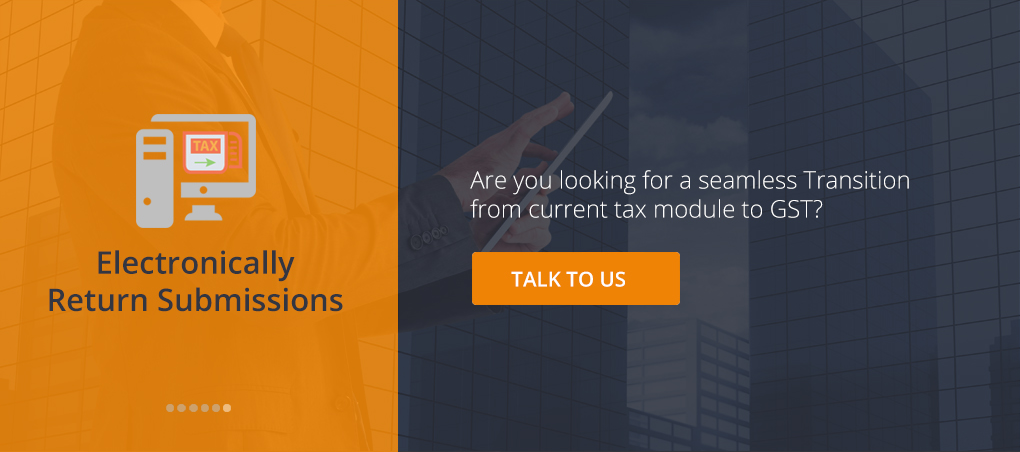
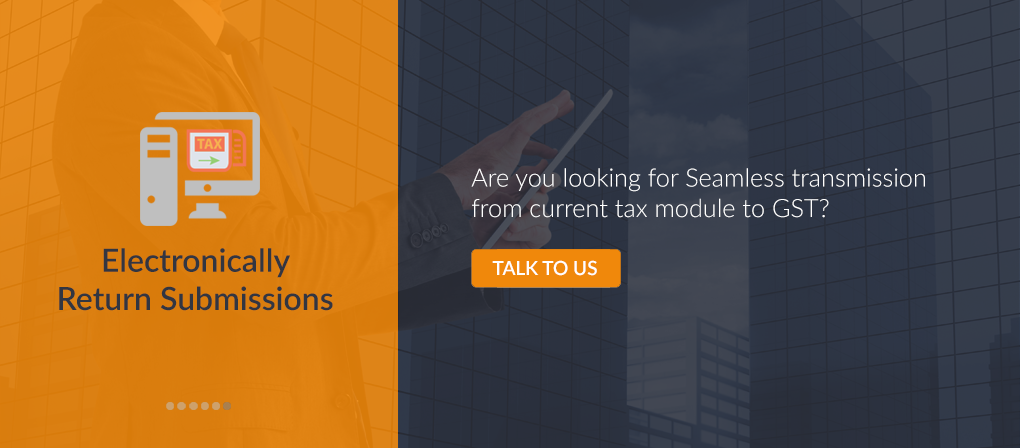
fgg

diff --git a/css/custom.css b/css/custom.css
@@ -245,6 +245,30 @@
     height: 385px;
 }
 }
+@media (max-width:768px) and (min-width:500px) {
+.slider-view {
+    
+    min-height: 400px !important;
+    height: 400px !important;
+    
+}
+}
+@media (max-width:450px) and (min-width:400px) {
+.slider-view {
+    
+    min-height: 250px !important;
+    height: 250px !important;
+    
+}
+}
+@media (max-width:399px) and (min-width:300px) {
+.slider-view {
+    
+    min-height: 210px !important;
+    height: 210px !important;
+    
+}
+}
 .erp-content {padding:70px 0;}
 .gstr {background-color:#f3f3f5}
 .gstr img {margin:0px auto;}
@@ -304,3 +328,181 @@
 }
 .ouroff {font-size:13px !important;}
 #fh5co-hero .flexslider .slides li:after {background: none !important;}
+.slider-view {    background-repeat: no-repeat;
+    background-size: cover;
+    background-position: bottom center;
+    min-height: 630px;
+    height: 630px;
+    position: relative;}
+	
+/*slider*/
+.quote {
+    color: rgba(0,0,0,.1);
+    text-align: center;
+    margin-bottom: 30px;
+}
+
+/*-------------------------------*/
+/*    Carousel Fade Transition   */
+/*-------------------------------*/
+
+#fade-quote-carousel.carousel {
+  padding-bottom: 60px;
+}
+#fade-quote-carousel.carousel .carousel-inner .item {
+  opacity: 0;
+  -webkit-transition-property: opacity;
+      -ms-transition-property: opacity;
+          transition-property: opacity;
+}
+#fade-quote-carousel.carousel .carousel-inner .active {
+  opacity: 1;
+  -webkit-transition-property: opacity;
+      -ms-transition-property: opacity;
+          transition-property: opacity;
+}
+#fade-quote-carousel.carousel .carousel-indicators {
+  bottom: 10px;
+}
+#fade-quote-carousel.carousel .carousel-indicators > li {
+  background-color: #cda16c;
+  border: none;
+}
+#fade-quote-carousel blockquote {
+    text-align: center;
+    border: none;
+}
+#fade-quote-carousel .profile-circle {
+    width: 100px;
+    height: 100px;
+    margin: 0 auto;
+    border-radius: 100px;
+}
+.cust-slider {
+    position: absolute;
+    top: 40px;
+    left: 100px;
+    z-index: 999999;
+}
+.cust-slider-cont{
+    position: absolute;
+    top: 185px;
+    left: 602px;
+}
+.head-color {
+    color: #323641 !important;
+    font-size: 30px !important;
+    line-height: 30px;
+	font-family: Lato-semibold;
+}
+.head-color-cont {
+    color: #fff !important;
+    font-size: 30px !important;
+    line-height: 48px;
+    font-family: Lato-semibold;
+}
+@media (max-width:768px) and (min-width:500px) {
+.cust-slider {
+    position: absolute;
+    top: -50px;
+    left: 15px;
+    z-index: 999999;
+}
+.head-color {
+    color: #323641 !important;
+    font-size: 18px !important;
+    line-height: 30px;
+	font-family: Lato-semibold;
+}
+.cust-slider-cont {
+    position: absolute;
+    top: 146px;
+    left: 350px;
+}
+.head-color-cont {
+    color: #fff !important;
+    font-size: 22px !important;
+    line-height: 48px;
+    font-family: Lato-semibold;
+}
+}
+@media (max-width:425px) and (min-width:376px) {
+	.slid-img {width:100px !important;}
+	.cust-slider {
+    position: absolute;
+    top: 0px;
+    left: 35px;
+    z-index: 999999;
+}
+	.head-color {
+    color: #fff !important;
+    font-size: 16px !important;
+    line-height: 25px;
+	font-family: Lato-semibold;
+	margin-left:-20px;
+}
+.carousel-indicators {
+    position: absolute;
+    bottom: 10px;
+    left: 43%;
+    z-index: 15;
+    width: 72%;
+    margin-left: -32%;
+    padding-left: 0;
+    list-style: none;
+    text-align: center;
+}
+.cust-slider-cont {
+    position: absolute;
+    top: 60px;
+    left: 188px;
+}
+.head-color-cont {
+    color: #fff !important;
+    font-size: 18px !important;
+    line-height: 22px;
+    font-family: Lato-semibold;
+}
+}
+@media (max-width:375px) and (min-width:320px) {
+	.slid-img {width:100px !important;}
+	.cust-slider {
+    position: absolute;
+    top: 0px;
+    left: 35px;
+    z-index: 999999;
+}
+	.head-color {
+    color: #fff !important;
+    font-size: 14px !important;
+    line-height: 15px;
+	font-family: Lato-semibold;
+	margin-left:-20px;
+}
+.carousel-indicators {
+    position: absolute;
+    bottom: 10px;
+    left: 43%;
+    z-index: 15;
+    width: 82%;
+    margin-left: -32%;
+    padding-left: 0;
+    list-style: none;
+    text-align: center;
+}
+.cust-slider-cont {
+    position: absolute;
+    top: 60px;
+    left: 188px;
+}
+.head-color-cont {
+    color: #fff !important;
+    font-size: 14px !important;
+    line-height: 15px;
+    font-family: Lato-semibold;
+}
+.cust-blq {margin: 0 0 2px !important;}
+.ouroff {
+    font-size: 11px !important;
+}
+}

diff --git a/about.html b/about.html
@@ -94,14 +94,46 @@
 		</div>
 	</nav>
 	
-	<aside id="fh5co-hero">
-		<div class="flexslider">
-			<ul class="slides">
-		   	<li style="background-image: url(images/slider-3.png);">
-		   	</li>
-		   			   	
-		  	</ul>
-	  	</div>
+	<aside id="">
+			<div style="position:relative;">
+			
+			<img src="images/slider-333.png" class="img-responsive slider-view">
+			
+			
+			<div id="carousel" class="cust-slider">    				
+	
+                <div class="quote"><i class="fa fa-quote-left fa-4x"></i></div>
+				<div class="carousel slide" id="fade-quote-carousel" data-ride="carousel" data-interval="3000">
+				  <!-- Carousel indicators -->
+                  <ol class="carousel-indicators">
+				    <li data-target="#fade-quote-carousel" data-slide-to="0" class="active"></li>
+				    <li data-target="#fade-quote-carousel" data-slide-to="1"></li>
+				    <li data-target="#fade-quote-carousel" data-slide-to="2"></li>
+                    <li data-target="#fade-quote-carousel" data-slide-to="3"></li>
+                    <li data-target="#fade-quote-carousel" data-slide-to="4"></li>
+                    <li data-target="#fade-quote-carousel" data-slide-to="5"></li>
+				  </ol>
+				  <!-- Carousel items -->
+				  <div class="carousel-inner">
+				   
+				    <div class="active item">
+                        <div><img src="images/s-2.png" class="img-responsive slid-img"></div>
+				    	<blockquote class="cust-blq" style="padding:0 20px">
+				    		<p class="head-color">Electronically</br>Return Submissions</p>
+				    	</blockquote>
+				    </div>
+                   
+				  </div>
+				</div>
+			
+</div>
+<!--content block-->
+<div class="cust-slider-cont">
+	<h2 class="head-color-cont">Are you looking for seamless transmission</br>from current tax module to GST?</h2>
+	<p><a class="cust-btn btn ouroff" href="#">TALK TO US</a></p>
+</div>
+			</div>
+		
 	</aside>
 
 
